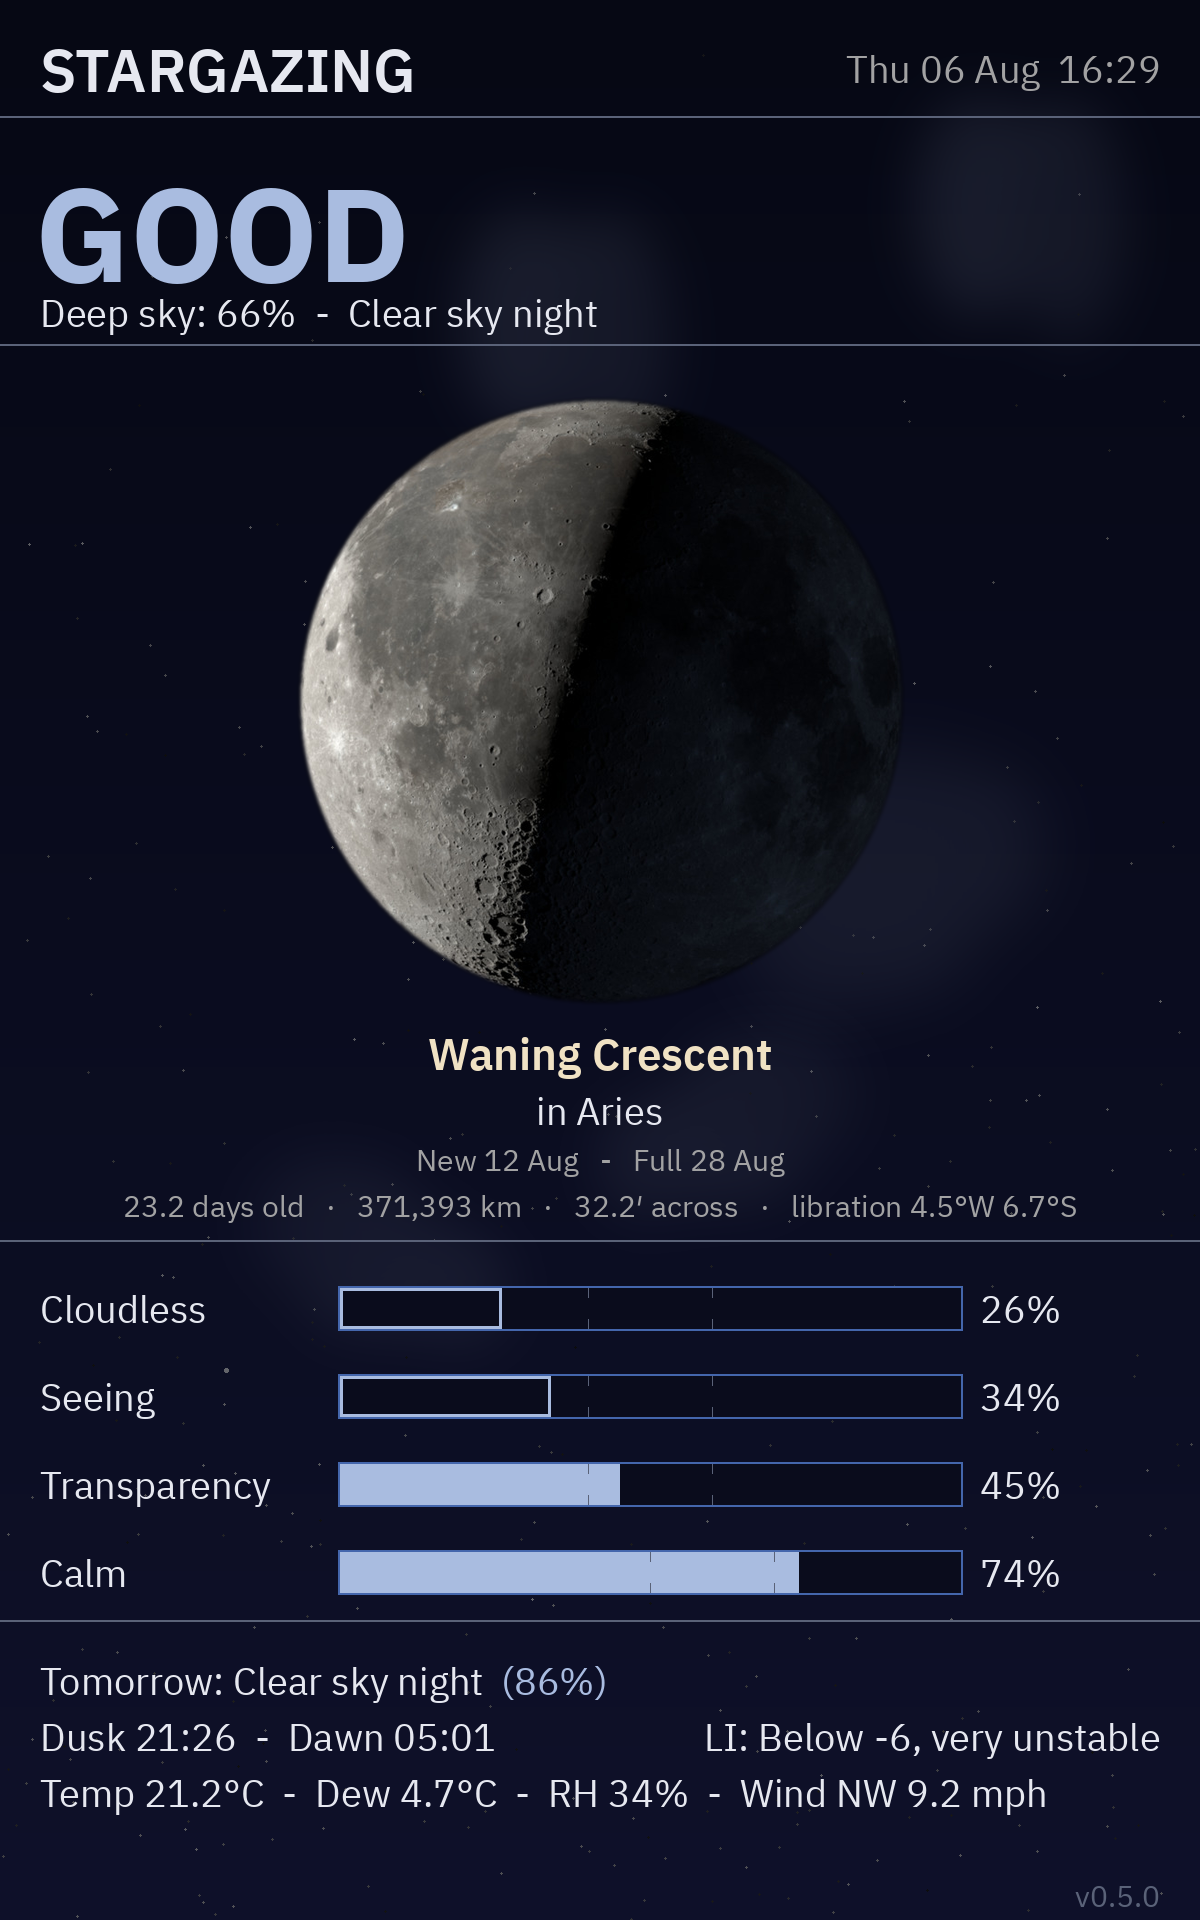
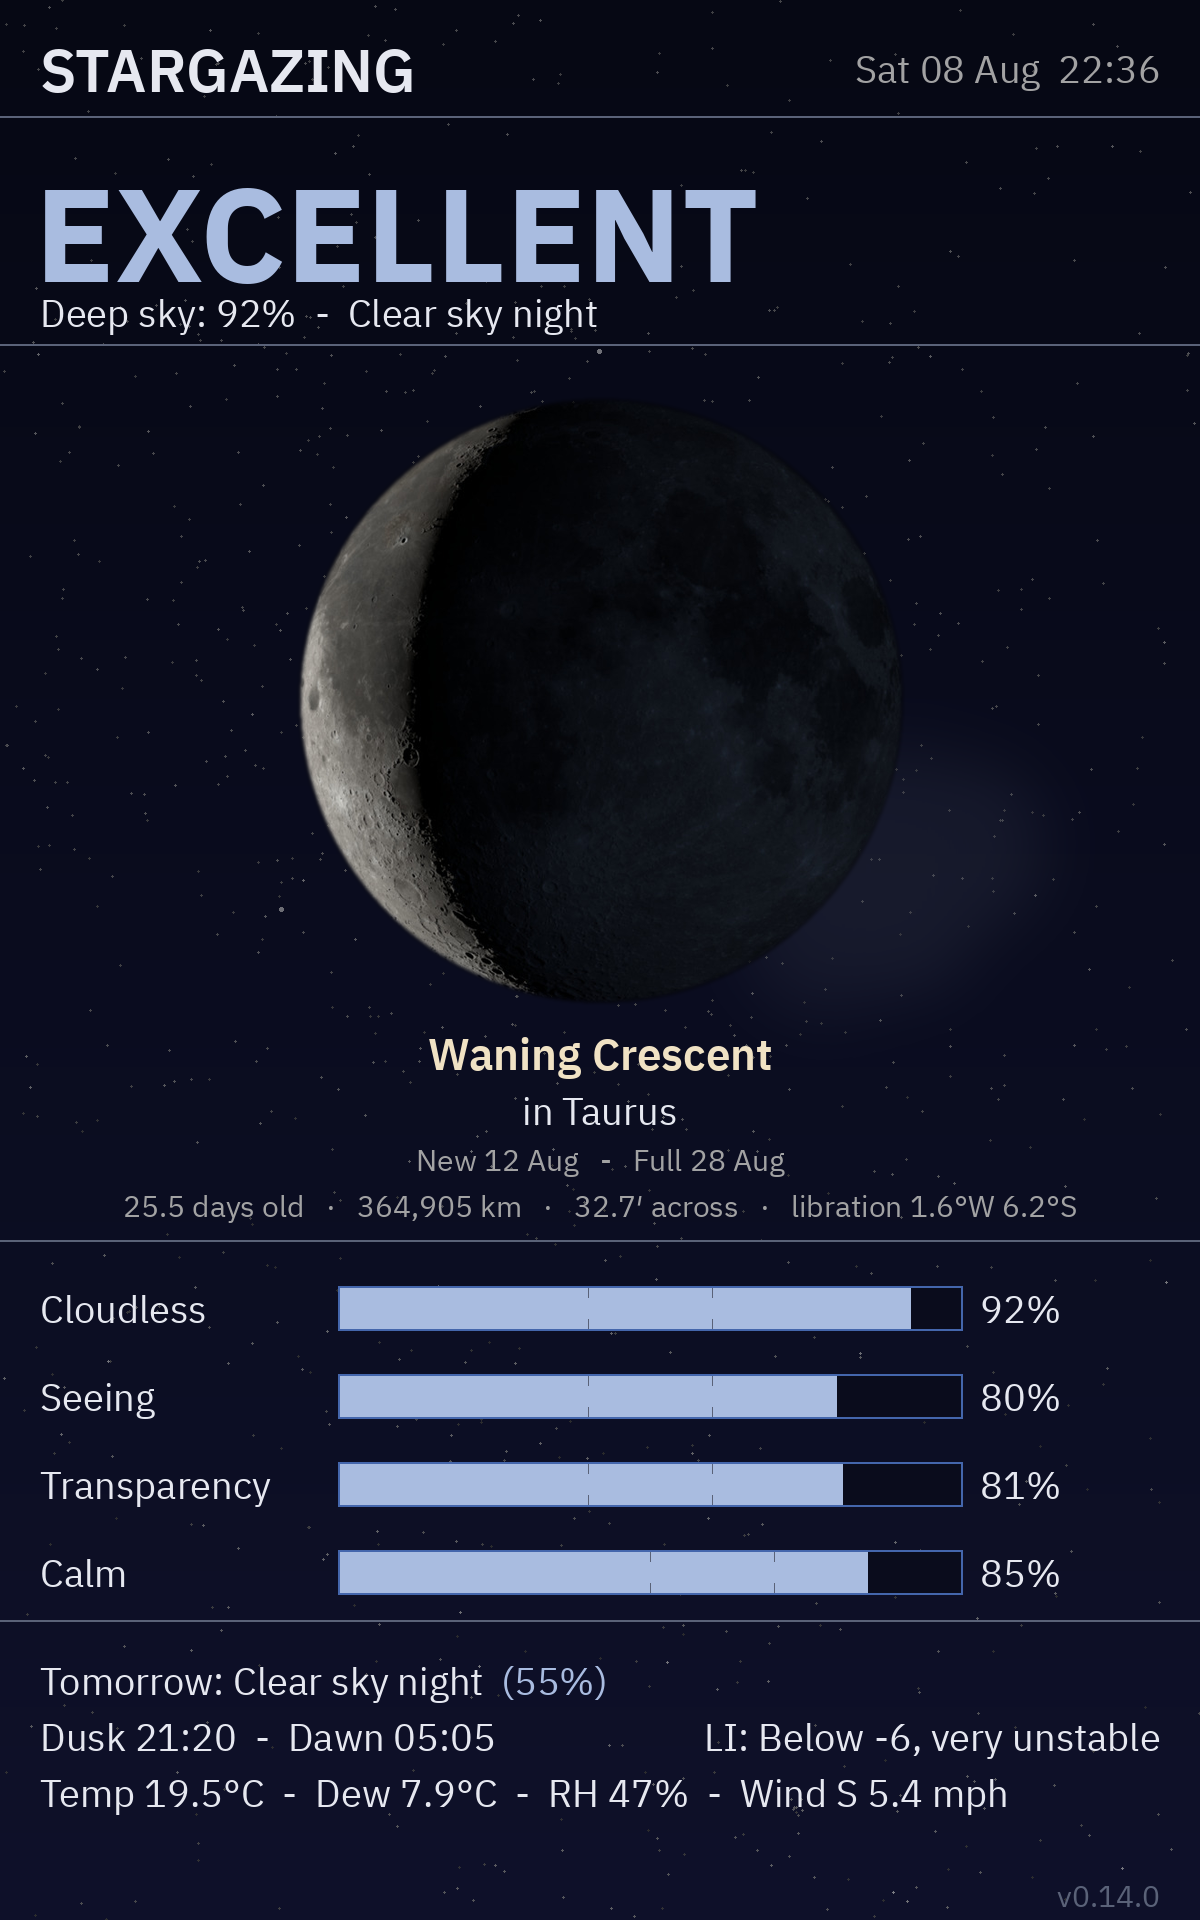
Retake the 10.1-inch screenshots in the daylight palette
All four were stale. The targets page has gained the below-horizon line, the
meteors page the Coming Up list, and both pages sit over a starfield that
changed substantially when the projection became gnomonic and the twinkle
became altitude-dependent. The conditions page also carried an older version
stamp.

Captured with --no-night from one run at the deployed version, so the four
agree with each other and with the code. The alt text is rewritten to describe
what is now in each image rather than what used to be.

Docs only; no version bump.

diff --git a/README.md b/README.md
@@ -64,15 +64,15 @@ Portrait, 2.5× the pixels at slightly lower density, so the space goes on conte
 
 **Page 1 — conditions.** The Moon takes the middle band at 600px across; the source frame is 730px, so this is close to native rather than an enlargement. Under it are the numbers that come with the frame and used to be discarded — age, distance, apparent diameter, and libration as the direction the near side is tipped.
 
-![The 10.1-inch conditions page in portrait: a large EXCELLENT verdict, a 600-pixel photograph of a last-quarter Moon captioned Last Quarter in Aries with its age, distance, diameter and libration, four condition bars with the below-threshold Seeing bar drawn hollow, and a footer of forecast, dusk and dawn times and weather.](screenshots/10in-conditions.png)
+![The 10.1-inch conditions page in portrait: a large EXCELLENT verdict, a 600-pixel photograph of a waning crescent Moon captioned Waning Crescent in Taurus with its age, distance, diameter and libration, four condition bars, and a footer of forecast, dusk and dawn times and weather.](screenshots/10in-conditions.png)
 
 **Page 2 — targets.** One altitude-versus-bearing plot carries the planets *and* the deep-sky objects on a full 0–90° axis. The 5" build keeps the two apart because it has far less vertical room: UpTonight selects deep-sky targets for high altitude, while the planets stay near the ecliptic and so occupy a lower band, and a short axis holding both compresses whichever band is lower. How far apart those bands sit depends on latitude — from the reference site at 51°N the objects peak around 70–85° and the planets stay below about 35°, but nearer the equator the ecliptic rides much higher and the two overlap. Every position on the plot is for the single instant named above it.
 
-![The 10.1-inch targets page: a dusk-to-dawn timeline, then an altitude-versus-bearing plot showing six deep-sky objects between 60 and 77 degrees and four planets below 30, each labelled with its bearing, above six deep-sky cards with real sky photographs.](screenshots/10in-targets.png)
+![The 10.1-inch targets page: a dusk-to-dawn timeline, then an altitude-versus-bearing plot showing six deep-sky objects between 30 and 68 degrees and Neptune just above the horizon, each labelled with its bearing, then a line naming the bodies still below the horizon with the times they rise, above six deep-sky cards with real sky photographs.](screenshots/10in-targets.png)
 
 **Page 3 — meteors.** Which showers are actually running, from a table of orbital constants indexed by solar longitude, with the rate an observer would really count once radiant altitude, cloud and moonlight are accounted for.
 
-![The 10.1-inch meteor page: solar longitude 135.1 degrees, with the Perseids 5 days before peak at about six per hour and the Southern Delta Aquariids 8 days past peak at about one per hour, each showing radiant altitude and bearing against its zenithal hourly rate at peak, plus a sporadic background of about three per hour and the next peak named in the footer.](screenshots/10in-meteors.png)
+![The 10.1-inch meteor page: solar longitude 136 degrees, with the Perseids 4 days before peak at about eight per hour and the Southern Delta Aquariids 9 days past peak, each showing radiant altitude and bearing against its zenithal hourly rate at peak, then a Coming Up list of the next nine shower peaks with the days to each, and a footer giving the sporadic background and the next peak.](screenshots/10in-meteors.png)
 
 ---
 
